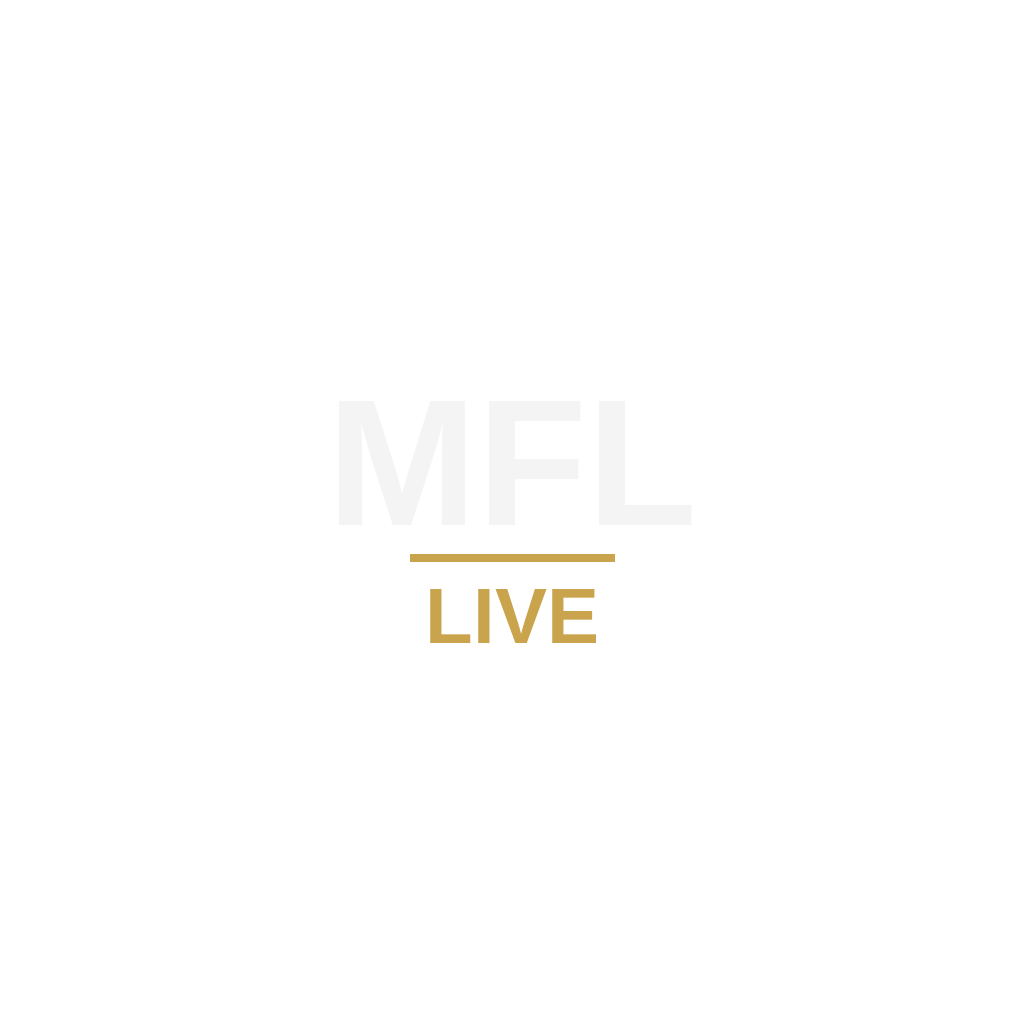
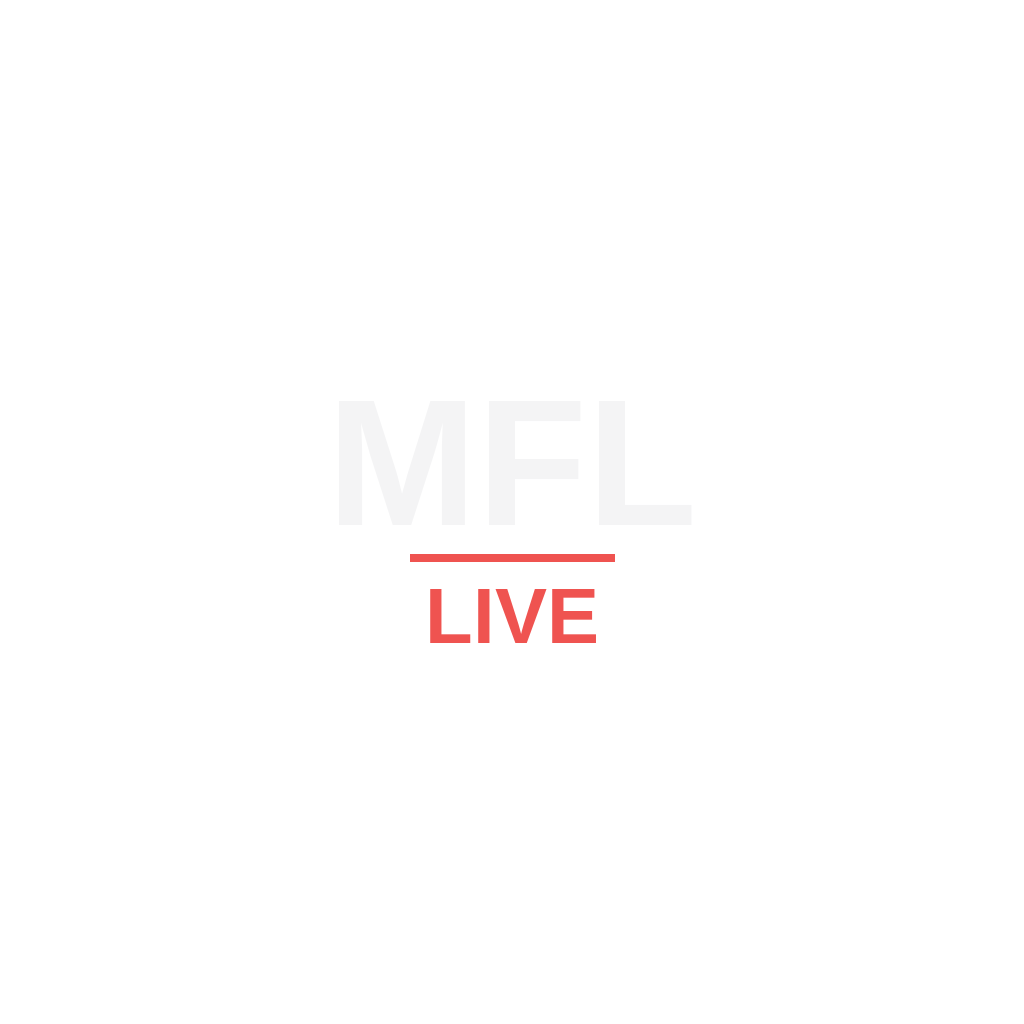
MFL Live phone app: black and red, Vend Sans, and a draft feature plan
The app wore the old gold/orange accents and the system font. It now uses the
web board's own colours (html.dark[data-league="mfl"]: ink #14161a, red
#d81b41 / #ef5350) as its one theme, and the web's font, Vend Sans, bundled
through @expo-google-fonts/vend-sans. React Native picks a weight by family
name, so text styles name a font.* family instead of a fontWeight. The icon's
gold rule and LIVE are red to match.

docs/plans/mfl-live-store-app.md records the look (decision 13) and a
prioritized plan for bringing the web app's features to the phone, as a draft
for the owner's review.

Claude-Session: https://claude.ai/code/session_01FuiuH6SPPAa8A9wvPP7wmj

Changed region(s): [[0.4062, 0.5312, 0.5938, 0.625]]

diff --git a/apps/mobile/src/components/MatchupCard.tsx b/apps/mobile/src/components/MatchupCard.tsx
@@ -7,7 +7,7 @@ import type {
   MflLiveAppTeam,
 } from '@mfl/shared-types/mfl-live-app';
 import { percent, points } from '../format';
-import { useTheme, type Theme } from '../theme';
+import { font, useTheme, type Theme } from '../theme';
 import { TeamMark } from './TeamMark';
 
 interface Props {
@@ -69,7 +69,7 @@ function TeamLine({
           {showProjection ? `  ·  proj ${points(team.projectedFinal)}` : ''}
         </Text>
       </View>
-      <Text style={[styles.score, { color: t.text, fontWeight: bold ? '800' : '500' }]}>{points(team.live)}</Text>
+      <Text style={[styles.score, { color: t.text, fontFamily: bold ? font.bold : font.medium }]}>{points(team.live)}</Text>
     </View>
   );
 }
@@ -133,20 +133,20 @@ const styles = StyleSheet.create({
   card: { borderWidth: 1, borderRadius: 12, padding: 14, marginBottom: 12, gap: 10 },
   teamLine: { flexDirection: 'row', alignItems: 'center', gap: 12 },
   teamText: { flex: 1 },
-  teamName: { fontSize: 16, fontWeight: '600' },
-  sub: { fontSize: 12, marginTop: 2 },
-  score: { fontSize: 24, fontVariant: ['tabular-nums'] },
+  teamName: { fontSize: 16, fontFamily: font.semibold },
+  sub: { fontFamily: font.regular, fontSize: 12, marginTop: 2 },
+  score: { fontFamily: font.regular, fontSize: 24, fontVariant: ['tabular-nums'] },
   winWrap: { flexDirection: 'row', alignItems: 'center', gap: 10 },
   winTrack: { flex: 1, height: 6, borderRadius: 3, overflow: 'hidden' },
   winFill: { height: 6 },
-  winText: { fontSize: 12, fontVariant: ['tabular-nums'] },
-  hint: { fontSize: 12, textAlign: 'center' },
+  winText: { fontFamily: font.regular, fontSize: 12, fontVariant: ['tabular-nums'] },
+  hint: { fontFamily: font.regular, fontSize: 12, textAlign: 'center' },
   detail: { gap: 16, marginTop: 4 },
   lineup: {},
-  lineupTitle: { fontSize: 13, fontWeight: '700', textTransform: 'uppercase', letterSpacing: 0.5, marginBottom: 4 },
+  lineupTitle: { fontSize: 13, fontFamily: font.bold, textTransform: 'uppercase', letterSpacing: 0.5, marginBottom: 4 },
   playerRow: { flexDirection: 'row', alignItems: 'center', gap: 10, paddingVertical: 8, borderTopWidth: StyleSheet.hairlineWidth },
-  pos: { width: 32, fontSize: 12, fontWeight: '700' },
+  pos: { width: 32, fontSize: 12, fontFamily: font.bold },
   playerText: { flex: 1 },
-  playerName: { fontSize: 15 },
-  playerPts: { fontSize: 15, fontWeight: '600', fontVariant: ['tabular-nums'] },
+  playerName: { fontFamily: font.regular, fontSize: 15 },
+  playerPts: { fontSize: 15, fontFamily: font.semibold, fontVariant: ['tabular-nums'] },
 });

diff --git a/apps/mobile/src/screens/SignInScreen.tsx b/apps/mobile/src/screens/SignInScreen.tsx
@@ -10,7 +10,7 @@ import {
   View,
 } from 'react-native';
 import { signIn } from '../api';
-import { useTheme } from '../theme';
+import { font, useTheme } from '../theme';
 
 interface Props {
   onSignedIn: (token: string) => void;
@@ -85,9 +85,9 @@ export function SignInScreen({ onSignedIn }: Props) {
           style={[styles.button, { backgroundColor: t.accent, opacity: canSubmit ? 1 : 0.5 }]}
         >
           {busy ? (
-            <ActivityIndicator color={t.dark ? '#111113' : '#ffffff'} />
+            <ActivityIndicator color={t.onAccent} />
           ) : (
-            <Text style={[styles.buttonText, { color: t.dark ? '#111113' : '#ffffff' }]}>Sign in</Text>
+            <Text style={[styles.buttonText, { color: t.onAccent }]}>Sign in</Text>
           )}
         </Pressable>
 
@@ -103,12 +103,12 @@ export function SignInScreen({ onSignedIn }: Props) {
 const styles = StyleSheet.create({
   screen: { flex: 1 },
   inner: { flex: 1, justifyContent: 'center', paddingHorizontal: 24, maxWidth: 480, width: '100%', alignSelf: 'center' },
-  brand: { fontSize: 36, fontWeight: '800', marginBottom: 8 },
-  lede: { fontSize: 16, marginBottom: 28, lineHeight: 22 },
-  label: { fontSize: 13, fontWeight: '600', marginBottom: 6, textTransform: 'uppercase', letterSpacing: 0.5 },
-  input: { borderWidth: 1, borderRadius: 10, paddingHorizontal: 14, paddingVertical: 12, fontSize: 16, marginBottom: 16 },
-  error: { fontSize: 14, marginBottom: 12 },
+  brand: { fontSize: 36, fontFamily: font.bold, marginBottom: 8 },
+  lede: { fontFamily: font.regular, fontSize: 16, marginBottom: 28, lineHeight: 22 },
+  label: { fontSize: 13, fontFamily: font.semibold, marginBottom: 6, textTransform: 'uppercase', letterSpacing: 0.5 },
+  input: { borderWidth: 1, borderRadius: 10, paddingHorizontal: 14, paddingVertical: 12, fontFamily: font.regular, fontSize: 16, marginBottom: 16 },
+  error: { fontFamily: font.regular, fontSize: 14, marginBottom: 12 },
   button: { borderRadius: 10, paddingVertical: 14, alignItems: 'center', marginTop: 4 },
-  buttonText: { fontSize: 16, fontWeight: '700' },
-  fine: { fontSize: 12, marginTop: 24, lineHeight: 17 },
+  buttonText: { fontSize: 16, fontFamily: font.bold },
+  fine: { fontFamily: font.regular, fontSize: 12, marginTop: 24, lineHeight: 17 },
 });

diff --git a/apps/mobile/src/theme.ts b/apps/mobile/src/theme.ts
@@ -1,10 +1,11 @@
 /**
- * MFL Live's look: the AFL's design language with black where the AFL is
- * navy, gold accents, a light AND a dark theme (docs/plans/mfl-live-app.md,
- * Branding). The phone's own setting picks the theme.
+ * MFL Live's look: the web board's black and red (`html.dark[data-league="mfl"]`
+ * in src/styles/league-themes.generated.css), and its font, Vend Sans.
+ *
+ * One theme for now, on the owner's call (2026-10-27): no light theme until
+ * the app's core features are right. `useTheme` stays the one way a screen
+ * reads colours, so a second theme later is a change to this file only.
  */
-
-import { useColorScheme } from 'react-native';
 
 export interface Theme {
   dark: boolean;
@@ -14,40 +15,40 @@ export interface Theme {
   text: string;
   muted: string;
   accent: string;
+  /** Text on an `accent` fill. */
+  onAccent: string;
   accentText: string;
   win: string;
   danger: string;
   field: string;
 }
 
-const light: Theme = {
-  dark: false,
-  ground: '#f4f4f5',
-  card: '#ffffff',
-  border: '#e4e4e7',
-  text: '#111113',
-  muted: '#52525b',
-  accent: '#111113',
-  accentText: '#b45309',
-  win: '#15803d',
-  danger: '#b91c1c',
-  field: '#e4e4e7',
-};
-
-const dark: Theme = {
+const mflLive: Theme = {
   dark: true,
-  ground: '#0b0b0c',
-  card: '#18181b',
-  border: '#27272a',
-  text: '#f4f4f5',
-  muted: '#a1a1aa',
-  accent: '#d97706',
-  accentText: '#c9a44c',
+  ground: '#14161a',
+  card: '#1e2126',
+  border: '#3a3f47',
+  text: '#eef0f2',
+  muted: '#9aa0a9',
+  accent: '#d81b41',
+  onAccent: '#ffffff',
+  accentText: '#ef5350',
   win: '#4ade80',
-  danger: '#f87171',
-  field: '#27272a',
+  danger: '#ff8a80',
+  field: '#282c33',
 };
 
 export function useTheme(): Theme {
-  return useColorScheme() === 'dark' ? dark : light;
+  return mflLive;
 }
+
+/**
+ * Vend Sans, loaded in App.tsx. React Native picks a weight by FAMILY name, not
+ * by `fontWeight`, so every text style names one of these instead.
+ */
+export const font = {
+  regular: 'VendSans_400Regular',
+  medium: 'VendSans_500Medium',
+  semibold: 'VendSans_600SemiBold',
+  bold: 'VendSans_700Bold',
+} as const;

diff --git a/apps/mobile/src/screens/MatchupsScreen.tsx b/apps/mobile/src/screens/MatchupsScreen.tsx
@@ -4,7 +4,7 @@ import { useSafeAreaInsets } from 'react-native-safe-area-context';
 import type { MflLiveAppBoard, MflLiveAppLeaguePanel } from '@mfl/shared-types/mfl-live-app';
 import { fetchBoard, SignedOutError } from '../api';
 import { anyGameLive, updatedAgo } from '../format';
-import { useTheme, type Theme } from '../theme';
+import { font, useTheme, type Theme } from '../theme';
 import { MatchupCard } from '../components/MatchupCard';
 
 /** How often the board refreshes while one of your games is being played. */
@@ -156,13 +156,13 @@ const styles = StyleSheet.create({
     paddingVertical: 12,
     borderBottomWidth: StyleSheet.hairlineWidth,
   },
-  brand: { fontSize: 22, fontWeight: '800' },
-  signOut: { fontSize: 14 },
+  brand: { fontSize: 22, fontFamily: font.bold },
+  signOut: { fontFamily: font.regular, fontSize: 14 },
   content: { paddingHorizontal: 16, paddingTop: 12 },
-  meta: { fontSize: 13, marginBottom: 12 },
-  error: { fontSize: 14, marginBottom: 12 },
-  empty: { fontSize: 15, marginTop: 24, textAlign: 'center', lineHeight: 21 },
+  meta: { fontFamily: font.regular, fontSize: 13, marginBottom: 12 },
+  error: { fontFamily: font.regular, fontSize: 14, marginBottom: 12 },
+  empty: { fontFamily: font.regular, fontSize: 15, marginTop: 24, textAlign: 'center', lineHeight: 21 },
   league: { marginBottom: 12 },
-  leagueName: { fontSize: 13, fontWeight: '700', textTransform: 'uppercase', letterSpacing: 0.5, marginBottom: 8 },
-  status: { fontSize: 14, borderWidth: 1, borderRadius: 12, padding: 14, overflow: 'hidden' },
+  leagueName: { fontSize: 13, fontFamily: font.bold, textTransform: 'uppercase', letterSpacing: 0.5, marginBottom: 8 },
+  status: { fontFamily: font.regular, fontSize: 14, borderWidth: 1, borderRadius: 12, padding: 14, overflow: 'hidden' },
 });

diff --git a/apps/mobile/App.tsx b/apps/mobile/App.tsx
@@ -2,6 +2,13 @@ import { useCallback, useEffect, useState } from 'react';
 import { ActivityIndicator, View } from 'react-native';
 import { StatusBar } from 'expo-status-bar';
 import { SafeAreaProvider } from 'react-native-safe-area-context';
+import {
+  useFonts,
+  VendSans_400Regular,
+  VendSans_500Medium,
+  VendSans_600SemiBold,
+  VendSans_700Bold,
+} from '@expo-google-fonts/vend-sans';
 import { signOutOnServer } from './src/api';
 import { clearToken, loadToken, saveToken } from './src/session';
 import { useTheme } from './src/theme';
@@ -11,6 +18,14 @@ import { MatchupsScreen } from './src/screens/MatchupsScreen';
 /** Two screens, no router: signed out shows sign-in, signed in shows your matchups. */
 export default function App() {
   const t = useTheme();
+  // Vend Sans ships inside the app, so this resolves on the first frames; a
+  // font that fails to load falls back to the system face rather than blocking.
+  const [fontsLoaded, fontError] = useFonts({
+    VendSans_400Regular,
+    VendSans_500Medium,
+    VendSans_600SemiBold,
+    VendSans_700Bold,
+  });
   // undefined = still reading the keystore; null = signed out.
   const [token, setToken] = useState<string | null | undefined>(undefined);
 
@@ -32,7 +47,7 @@ export default function App() {
   return (
     <SafeAreaProvider>
       <StatusBar style={t.dark ? 'light' : 'dark'} />
-      {token === undefined ? (
+      {token === undefined || (!fontsLoaded && !fontError) ? (
         <View style={{ flex: 1, backgroundColor: t.ground, alignItems: 'center', justifyContent: 'center' }}>
           <ActivityIndicator color={t.accent} />
         </View>

diff --git a/apps/mobile/src/components/TeamMark.tsx b/apps/mobile/src/components/TeamMark.tsx
@@ -2,7 +2,7 @@ import { useState } from 'react';
 import { Image, StyleSheet, Text, View } from 'react-native';
 import type { MflLiveAppTeam } from '@mfl/shared-types/mfl-live-app';
 import { absoluteUrl } from '../api';
-import { useTheme } from '../theme';
+import { font, useTheme } from '../theme';
 
 /**
  * A franchise's own crest or uploaded logo, else its initials on a neutral
@@ -27,12 +27,12 @@ export function TeamMark({ team, size = 36 }: { team: MflLiveAppTeam; size?: num
   }
   return (
     <View style={[styles.field, { width: size, height: size, borderRadius: size / 2, backgroundColor: t.field }]}>
-      <Text style={[styles.initials, { color: t.muted, fontSize: size * 0.38 }]}>{team.initials}</Text>
+      <Text style={[styles.initials, { color: t.muted, fontFamily: font.regular, fontSize: size * 0.38 }]}>{team.initials}</Text>
     </View>
   );
 }
 
 const styles = StyleSheet.create({
   field: { alignItems: 'center', justifyContent: 'center' },
-  initials: { fontWeight: '700' },
+  initials: { fontFamily: font.bold },
 });

diff --git a/docs/plans/mfl-live-store-app.md b/docs/plans/mfl-live-store-app.md
@@ -38,6 +38,8 @@ What makes it worth paying for over MFL's app:
 | 10 | Store-safe board (2026-10-26) | `?source=mfl` = **MFL data only** | No ESPN fetch at all (no games strip, ticker, red zone), no Sleeper, no headshots, no NFL club marks or colours. Scores, projections and yet-to-play are unchanged. `tests/mfl-live-board-store.test.ts`. |
 | 11 | Android package id (2026-10-26) | **`football.mfl.live.mobile`** | `football.mfl.live` is the Google TV app's id (`android-tv/`), and Play allows one app per id, so the phone app has its own id, listing and closed test. Permanent once uploaded to Play. The iOS bundle id stays `football.mfl.live`. App name "MFL Live". Expo project: `mfl` under the `fantasysports.dev` account (id `45e0bbdf-e3b3-408d-8e0b-ac9950292d58`). |
 | 12 | First build (2026-10-26) | Three PRs off staging: server store mode → `apps/mobile` (sign-in + matchups screens) → GitHub Actions `eas build --no-wait` | Standings is the next screen after. Proposal: https://claude.ai/artifact/5BWWrQvew8dhEUo3Lu2mne |
+| 13 | Look (2026-10-27) | **MFL Live's black and red, one theme; Vend Sans** | The web board's `html.dark[data-league="mfl"]` colours (ink `#14161a`, red `#d81b41` / `#ef5350`) and its font, bundled with `@expo-google-fonts/vend-sans` (OFL). No light theme until the core features are right; `apps/mobile/src/theme.ts` is the only place colours live, so one can be added there later. |
+| 14 | Feature order (2026-10-27, draft for owner review) | See **Phone app feature plan** | Correctness of the core live features first, then reach, then what needs a licensed data feed. |
 
 ## Legal — what a wide-distribution app can and cannot carry
 
@@ -106,6 +108,53 @@ shipped that morning. So the app's `pnpm-workspace.yaml` sets
 `minimumReleaseAge: 1440`, and the lockfile is resolved under the same rule.
 Preview builds start on pushes to `staging` only. A release fast-forwards `main`
 to a commit staging already built.
+
+## Phone app feature plan (2026-10-27, draft for owner review)
+
+What the web app (`mfl.football/live`) does, in the order the phone app gets it.
+The owner's rule: get the core functionality right before theming or extras.
+
+**P0, the core (each one checked against the web board for the same week):**
+
+1. **Matchups, correct and live.** Every league the account is in; score,
+   projection, yet-to-play, win probability; starters with points and status
+   on tap; refresh on the NFL clock (the web's `shouldPollLive` cadence, not a
+   fixed timer), pull to refresh, last-updated time, clear error and
+   offseason states. Exists in a first form; this item is making it match.
+2. **App navigation.** A bottom tab bar (Matchups, Standings, Leagues) so the
+   next screens have a home.
+3. **League board.** Tap a league for every matchup in it plus the week's top
+   scorers (`/live/league/<id>`, `/api/league-board`, which already accepts
+   the app's Bearer sign-in). Needs a store-safe `source=mfl` mode like the
+   board's.
+4. **Standings.** Every watched league's table with the Live / Projected /
+   Final switch (`/live/standings`, `/api/live-standings`). Same store-safe
+   mode needed.
+5. **Which leagues to watch.** The `/live/settings` switches. The web keeps
+   the choice in a cookie (`/api/live-leagues`); the app needs it kept per
+   account on the server so phone and web agree.
+
+**P1, reach:**
+
+6. **League and team identity.** League logos, team colours and owner logos
+   wherever the web already has them; text marks otherwise. No NFL marks.
+7. **Pair a TV from the phone.** Scan the TV's QR code and approve it in the
+   app instead of a browser (`/live/broadcast/pair`).
+8. **Push alerts** (new, not on the web board): kickoff reminders, close
+   games, finals. Owner to confirm it is wanted.
+
+**P2, needs a licensed data feed first (store rules: no ESPN data):**
+
+9. NFL games strip with game clocks.
+10. Cross-league scoring ticker and red-zone banner.
+11. Faster-than-MFL score movement.
+
+**Not coming to the phone:** the TV broadcast board and its overlay (TV app),
+site analytics and the Sleeper player-fix review (admin-only), and Sleeper
+leagues for now (decision 10; revisit with the owner).
+
+**After this list:** light theme, iOS, then the roadmap below (history and
+rivalries, the reporter, subscriptions).
 
 ## Roadmap
 
